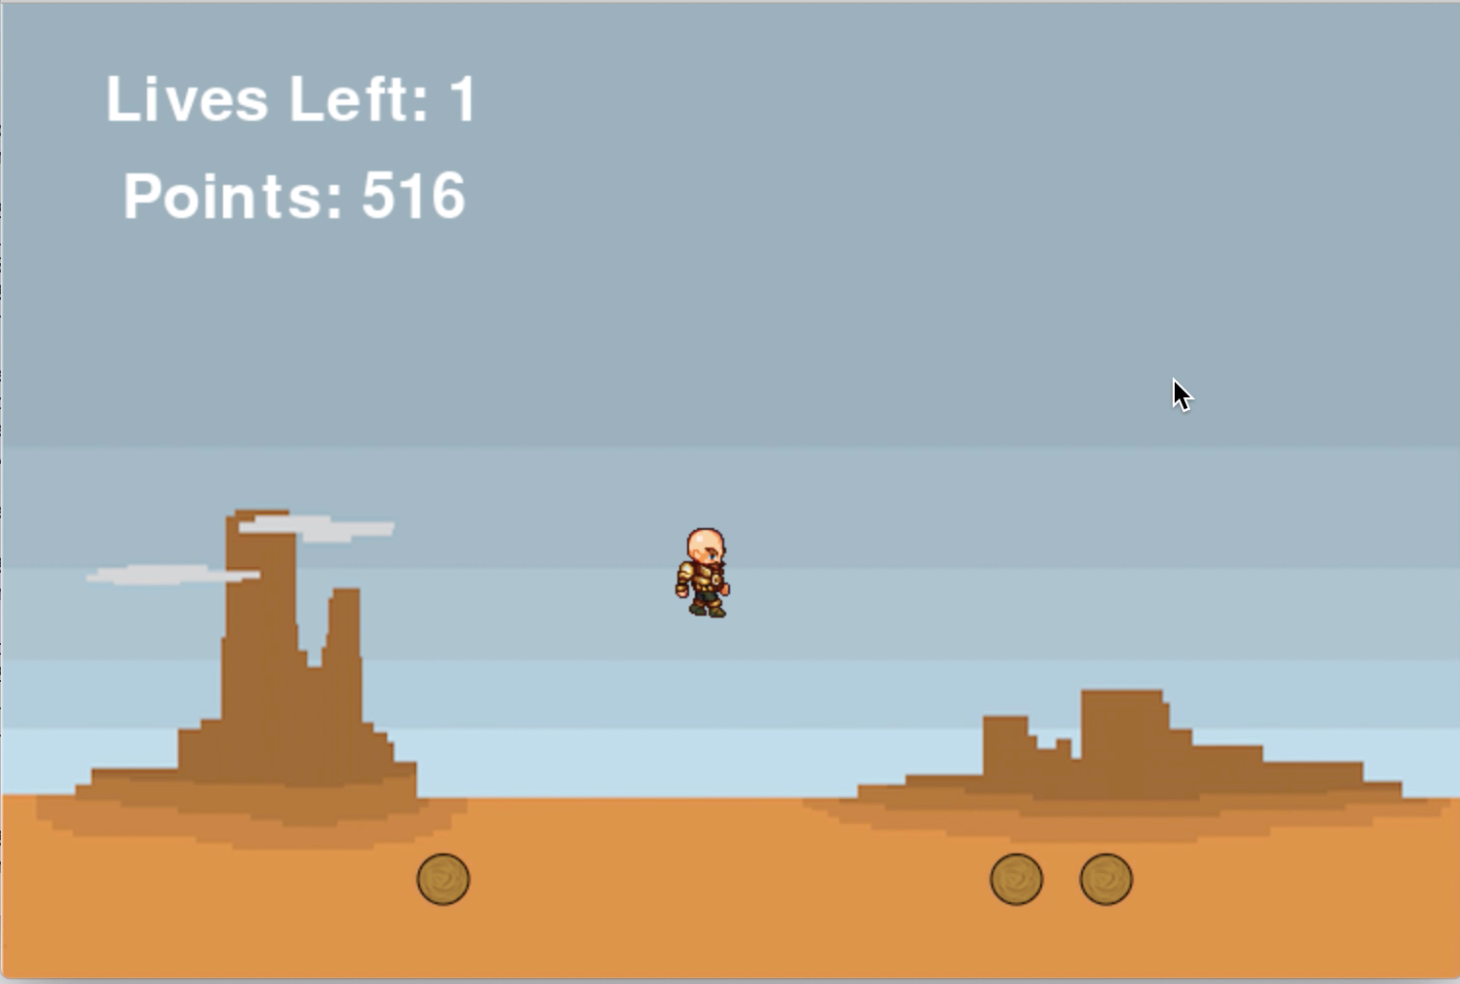
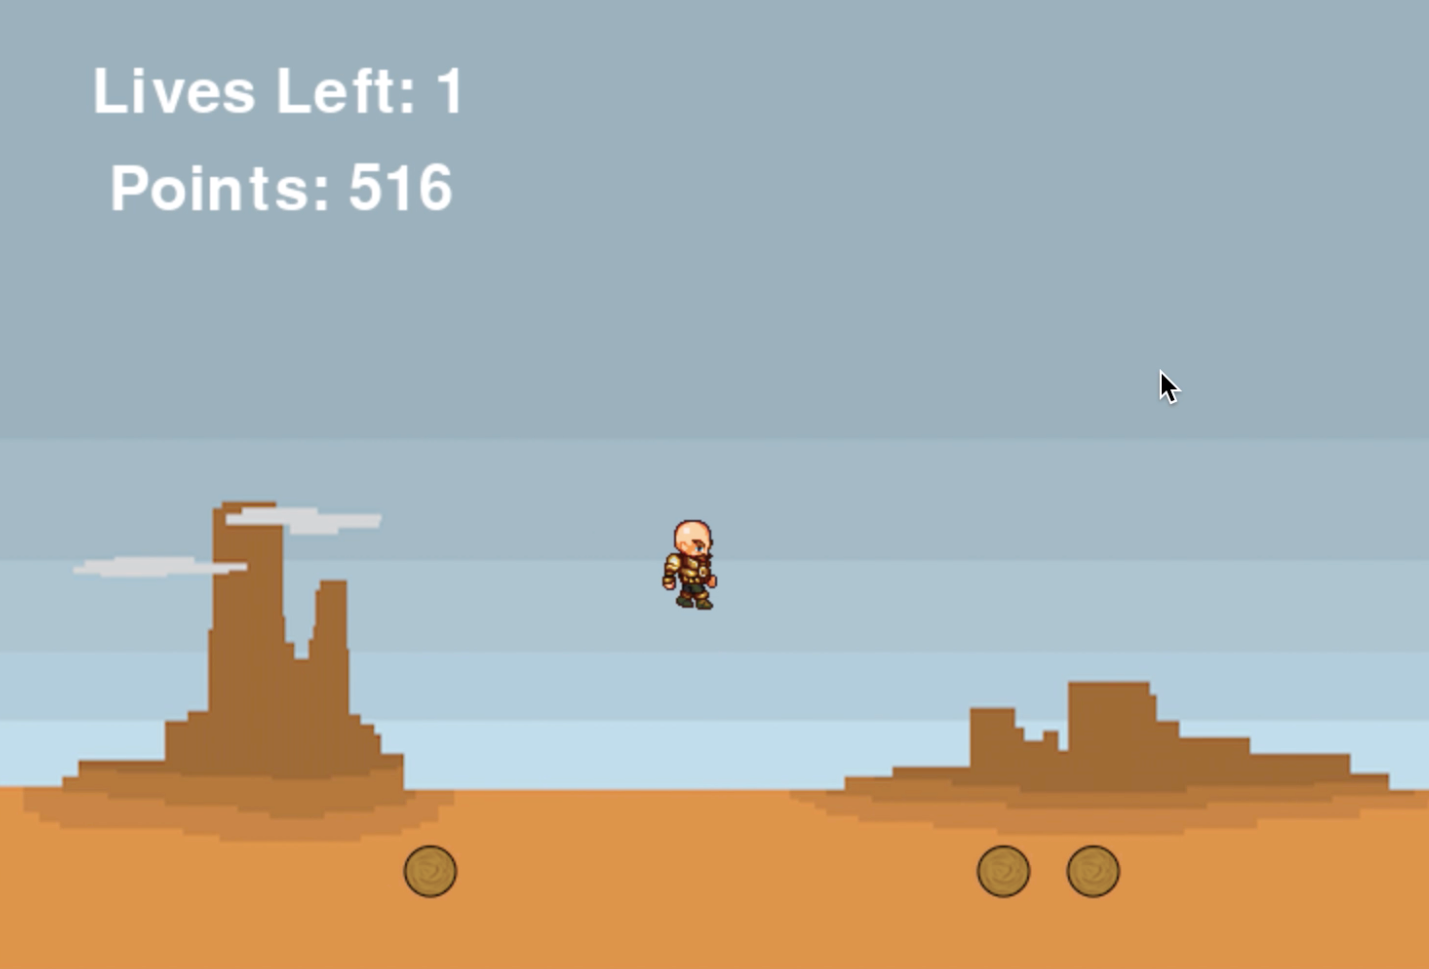
made project backgrounds green

diff --git a/assets/css/index.css b/assets/css/index.css
@@ -18,7 +18,11 @@ nav {
 }
 
 ul {
-  list-style-position: outside;
+    list-style-position: outside;
+}
+
+.project ul {
+    list-style-position: outside;
 }
 
 button {
@@ -158,7 +162,8 @@ ul {
 }
 
 .project {
-    background-color:rgb(237, 156, 85);
+    /*background-color:rgb(237, 156, 85);*/
+    background-color: rgb(73, 186, 65);
     text-align: center;
     border-radius: 50px;
     padding: 34px;
@@ -211,16 +216,18 @@ ul {
 }
 
 .impInfo {
-    color:rgb(51, 134, 249);
-    text-shadow: 3px 3px 3px 3px black;
+    font-style: italic;
+    -webkit-font-smoothing: antialiased;
+    
+
 }
 
 .impInfo a:link {
-    color:rgb(32, 118, 240);
+    color:white;
 }
 
 .impInfo a:visited {
-    color:rgb(32, 118, 240);
+   color:white;
 }
 
 .impInfo a:hover {

diff --git a/projects/index.html b/projects/index.html
@@ -114,7 +114,7 @@
 
                     <div class="project">
                         <h2> Game: Mr. TumbleWeed, 2021 </h2>
-                        <div> <img class="photoItem" src="/assets/img/projects/tumbleweed/tumbleweedGameOver.png"> </div>
+                        <div> <img class="photoItem" src="/assets/img/projects/tumbleweed/tumbleweedGamePlay.png"> </div>
                         <div class="projectElement">
                             <br>
                             this is a game I made in python. <br>
